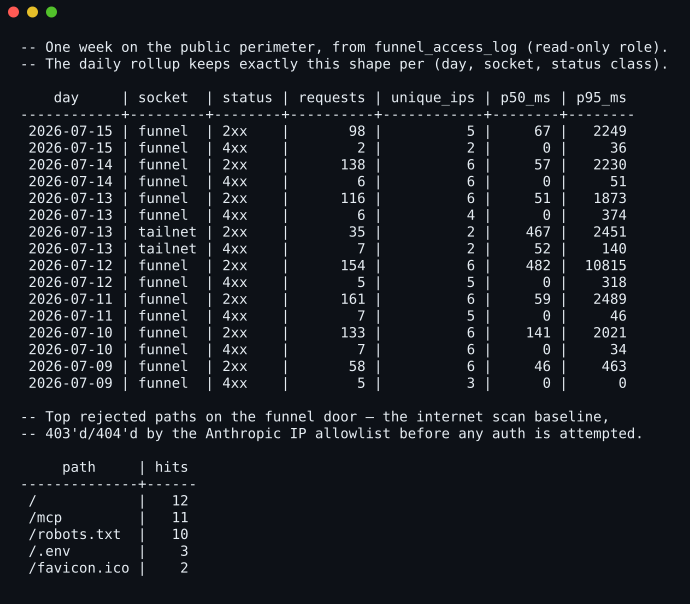
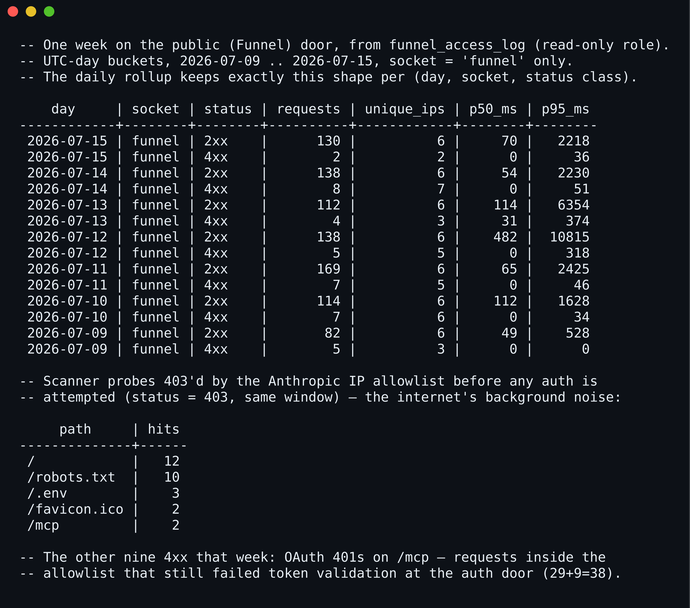
Address review round 1: honest funnel-summary scoping + README wording
- funnel-summary.png: regenerated from fresh read-only queries with
  explicit UTC-day bounds and socket='funnel' scope stated in the image;
  the path table is now status=403 only (allowlist rejections), with the
  remaining nine OAuth 401s on /mcp called out so the two tables
  reconcile (29+9=38). The previous image mixed those 401s into an
  "allowlist-rejected" table, claimed 404s that never occurred, and had
  been hand-trimmed of two tailnet days.
- README: caption/scope alignment; "nothing but curl and jq" loosened to
  the helper wording (Copilot/codex), mcp() explainer added (kimi),
  asciinema >= 3.0 note added (claude).
- demo.cast: drop the recording-harness "command" key from the header.

Changed region(s): [[0.0304, 0.0596, 0.9739, 0.9536], [0.0, 0.0, 0.0913, 0.0298]]

diff --git a/README.md b/README.md
@@ -172,15 +172,15 @@ Then point any MCP client at `http://127.0.0.1:8787/mcp` with your `x-brain-key`
 
 ## See it working
 
-Capture a thought, find it again by meaning (not keywords), checkpoint an agent work session, and resume it by branch — against a local compose install, driven with nothing but `curl` and `jq`:
+Capture a thought, find it again by meaning (not keywords), checkpoint an agent work session, and resume it by branch — against a local compose install, driven with a tiny shell helper around `curl` and `jq` (the `mcp()` function shown in the recording is just `curl … | jq`, with the endpoint and key taken from `$BRAIN` and `$BRAIN_KEY`):
 
 ![Terminal demo: capture_thought, semantic search_thoughts, session_capture, session_lookup](docs/assets/demo.gif)
 
-*(The recording is also committed as [`docs/assets/demo.cast`](docs/assets/demo.cast) for `asciinema play`.)*
+*(The recording is also committed as [`docs/assets/demo.cast`](docs/assets/demo.cast) for `asciinema play` — it's asciicast v3, so it needs asciinema ≥ 3.0.)*
 
-And what the observability stack is for — one week of real perimeter data from a live Funnel deployment: every request classified by door and status, and the internet's background scanning (`/.env` probes and friends) rejected by the IP allowlist before auth is ever attempted:
+And what the observability stack is for — one week of real data from a live deployment's public Funnel door (UTC-day buckets): every request bucketed by day and status class, the internet's background scanning (`/.env` probes and friends) rejected `403` by the Anthropic IP allowlist before auth is ever attempted, and the handful of requests from inside the allowlist that still failed OAuth token validation:
 
-![One week of funnel access summarized by day, socket, and status class, plus the top rejected scan paths](docs/assets/funnel-summary.png)
+![One week of public-door funnel access summarized by UTC day and status class, plus the top scan paths rejected 403 by the IP allowlist](docs/assets/funnel-summary.png)
 
 ## Trust model, in one paragraph
 